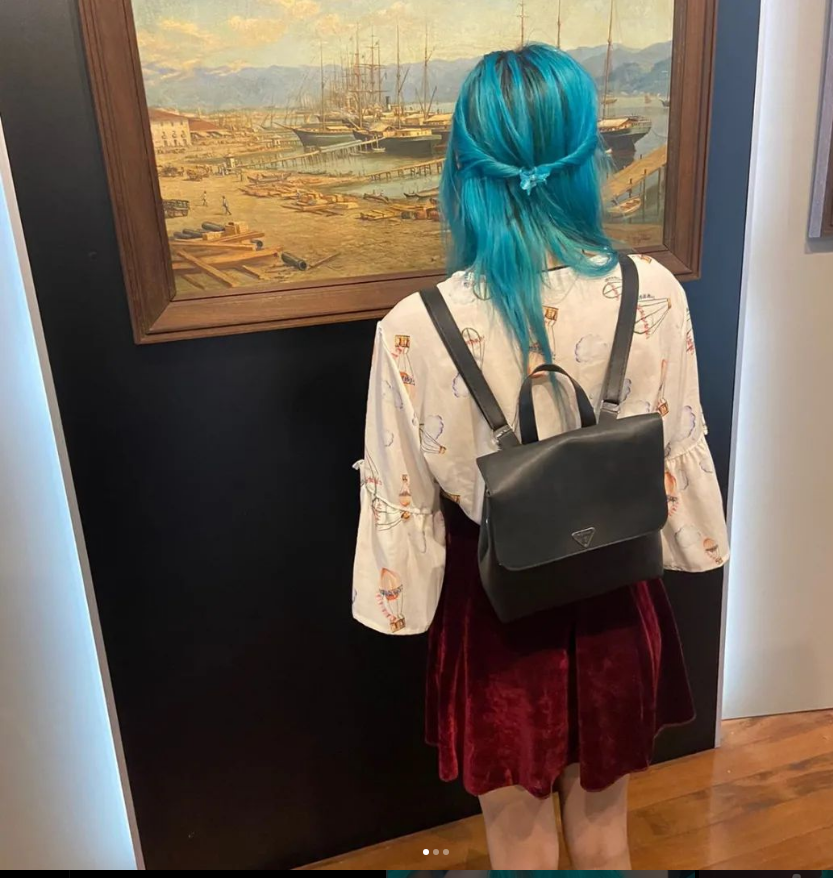
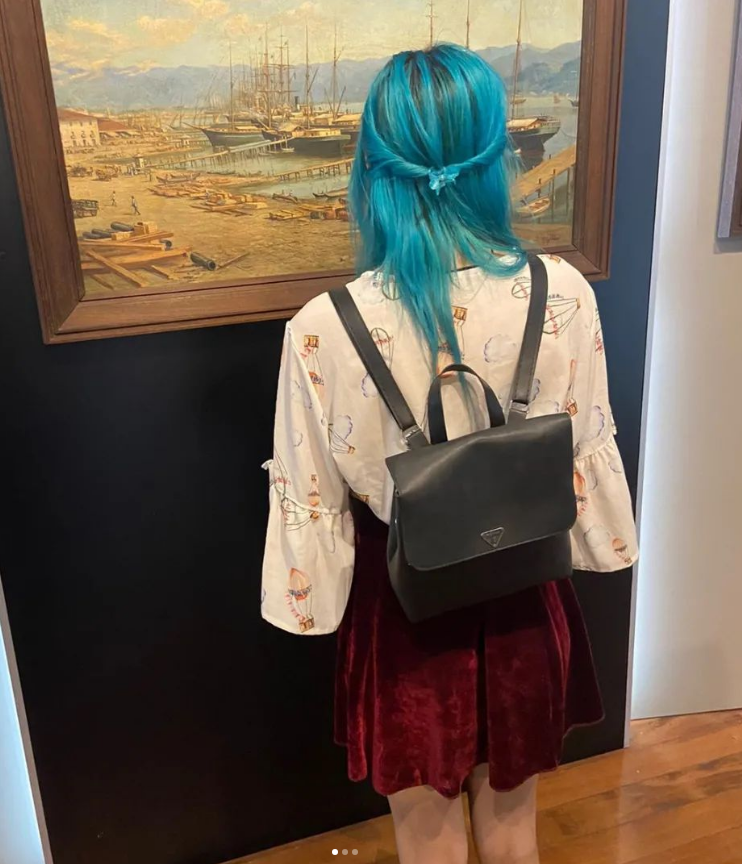
Atualizando os projetos e imagem do portifolio

diff --git a/index.html b/index.html
@@ -80,7 +80,7 @@
                     </div>
 
                     <div class="img-topo-site">
-                        <img src="images/f.png" alt="">
+                        <img src="images/quadro.PNG" alt="">
                     </div><!-- imagem-topo -->
                 </div> <!-- txt-topo-do-site -->
             </div> <!-- flex -->
@@ -168,16 +168,16 @@
             <div class="interface">
                 <h2 class="titulo"><br>Meu <span>PORTIFÓLIO.</span></h2><br>
                 <div class="flex">
-                    <div class="img-port" style="background-image: url(images/foto\ A.jfif);">
-                        <div class="overlay">Projeto A</div>
+                    <div class="img-port" style="background-image: url(images/projeto\ 1.PNG);">
+                        <div class="overlay">Projeto 1</div>
                     </div>
 
-                    <div class="img-port" style="background-image: url(images/eueu.PNG);">
-                        <div class="overlay">Projeto b</div>
+                    <div class="img-port" style="background-image: url(images/projeto\ 2.PNG);">
+                        <div class="overlay">Projeto 2</div>
                     </div>
 
                     <div class="img-port" style="background-image: url(images/e.png);">
-                        <div class="overlay">Projeto c</div>
+                        <div class="overlay">Projeto 3</div>
                     </div>
 
                 </div>

diff --git a/style.css b/style.css
@@ -138,7 +138,9 @@ section.topo-do-site img {
     height: auto;
     display: flex;
     object-fit: cover;
-    margin-top: -100px;
+    margin-bottom: 10px;
+    border-radius: 40px;
+    
 }
 
 .txt-topo-do-site {
@@ -333,7 +335,8 @@ section.portifolio .flex{
     left: 0;
     width: 100%;
     height: 100%;
-    background-color: #0000008b;
+    background-color: rgba(0, 0, 0, 0.7);
+    background-color: ##24393a25;
     border-radius: 40px;
     display: flex;
     align-items: center;
@@ -342,7 +345,7 @@ section.portifolio .flex{
     font-weight: 600;
     color: #fff;
     opacity: 0;
-    transition: .5s;
+    transition: .3s;
 }
 .overlay:hover{
     opacity: 1;
